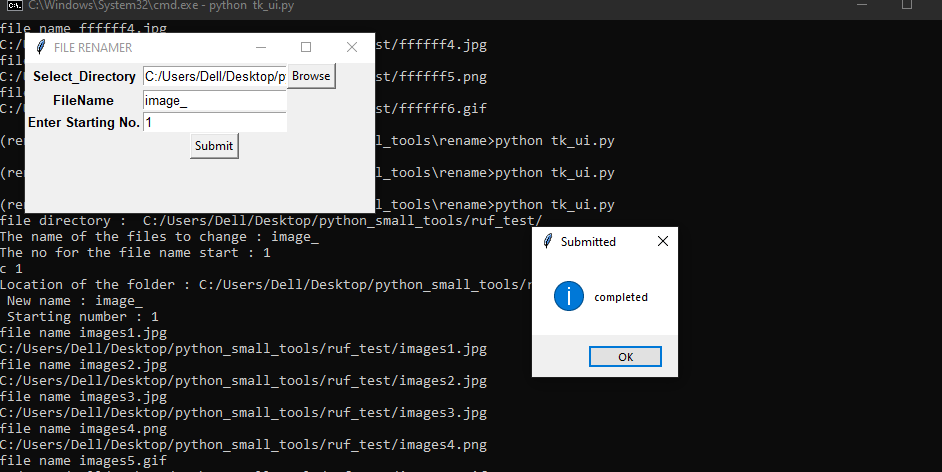
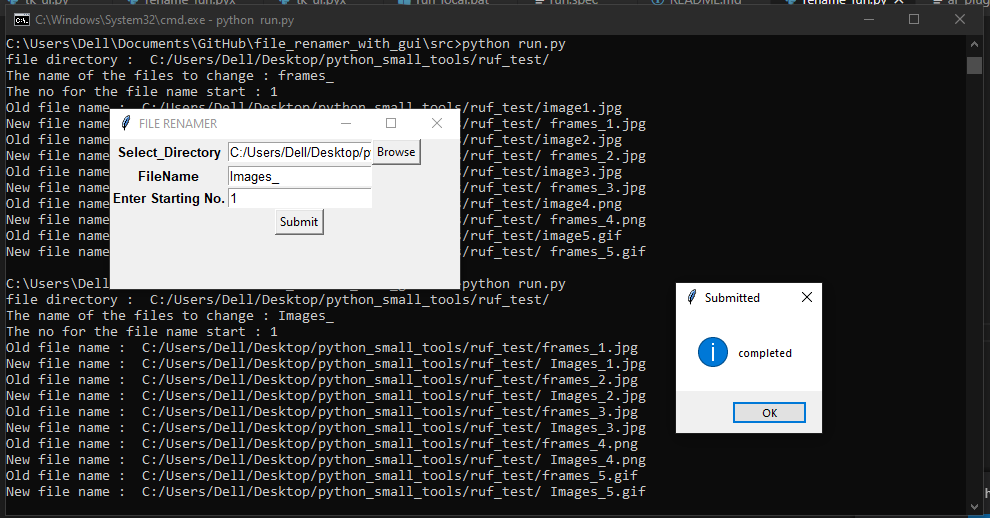
updated code img

diff --git a/src/rename_fun.py b/src/rename_fun.py
@@ -4,16 +4,18 @@ def rename(location,name,count):
     l =location
     n = name
     c = count
-    print("c",c)
-    print("Location of the folder : {} \n New name : {} \n Starting number : {}".format(l,n,c))
+    # print("c",c)
+    # print("Location of the folder : {} \n New name : {} \n Starting number : {}".format(l,n,c))
 
     for root, directories, files in os.walk(l, topdown=False):
         for name in files:
+            # print("old file names")
             path = os.path.join(root, name)
             file_type = path.split(".")[1]
-            print("file name",name)
-            print(path)
+            # print("file name",name)
+            print("Old file name : ",path)
             newname = '{}{}.{}'.format(n,c,file_type)
             # os.rename(filename, '{}_{}.{}'.format(n,c,file_type))
             os.rename(os.path.join(root, name), os.path.join(root, newname))
+            print("New file name : ",root,newname)
             c  += 1
